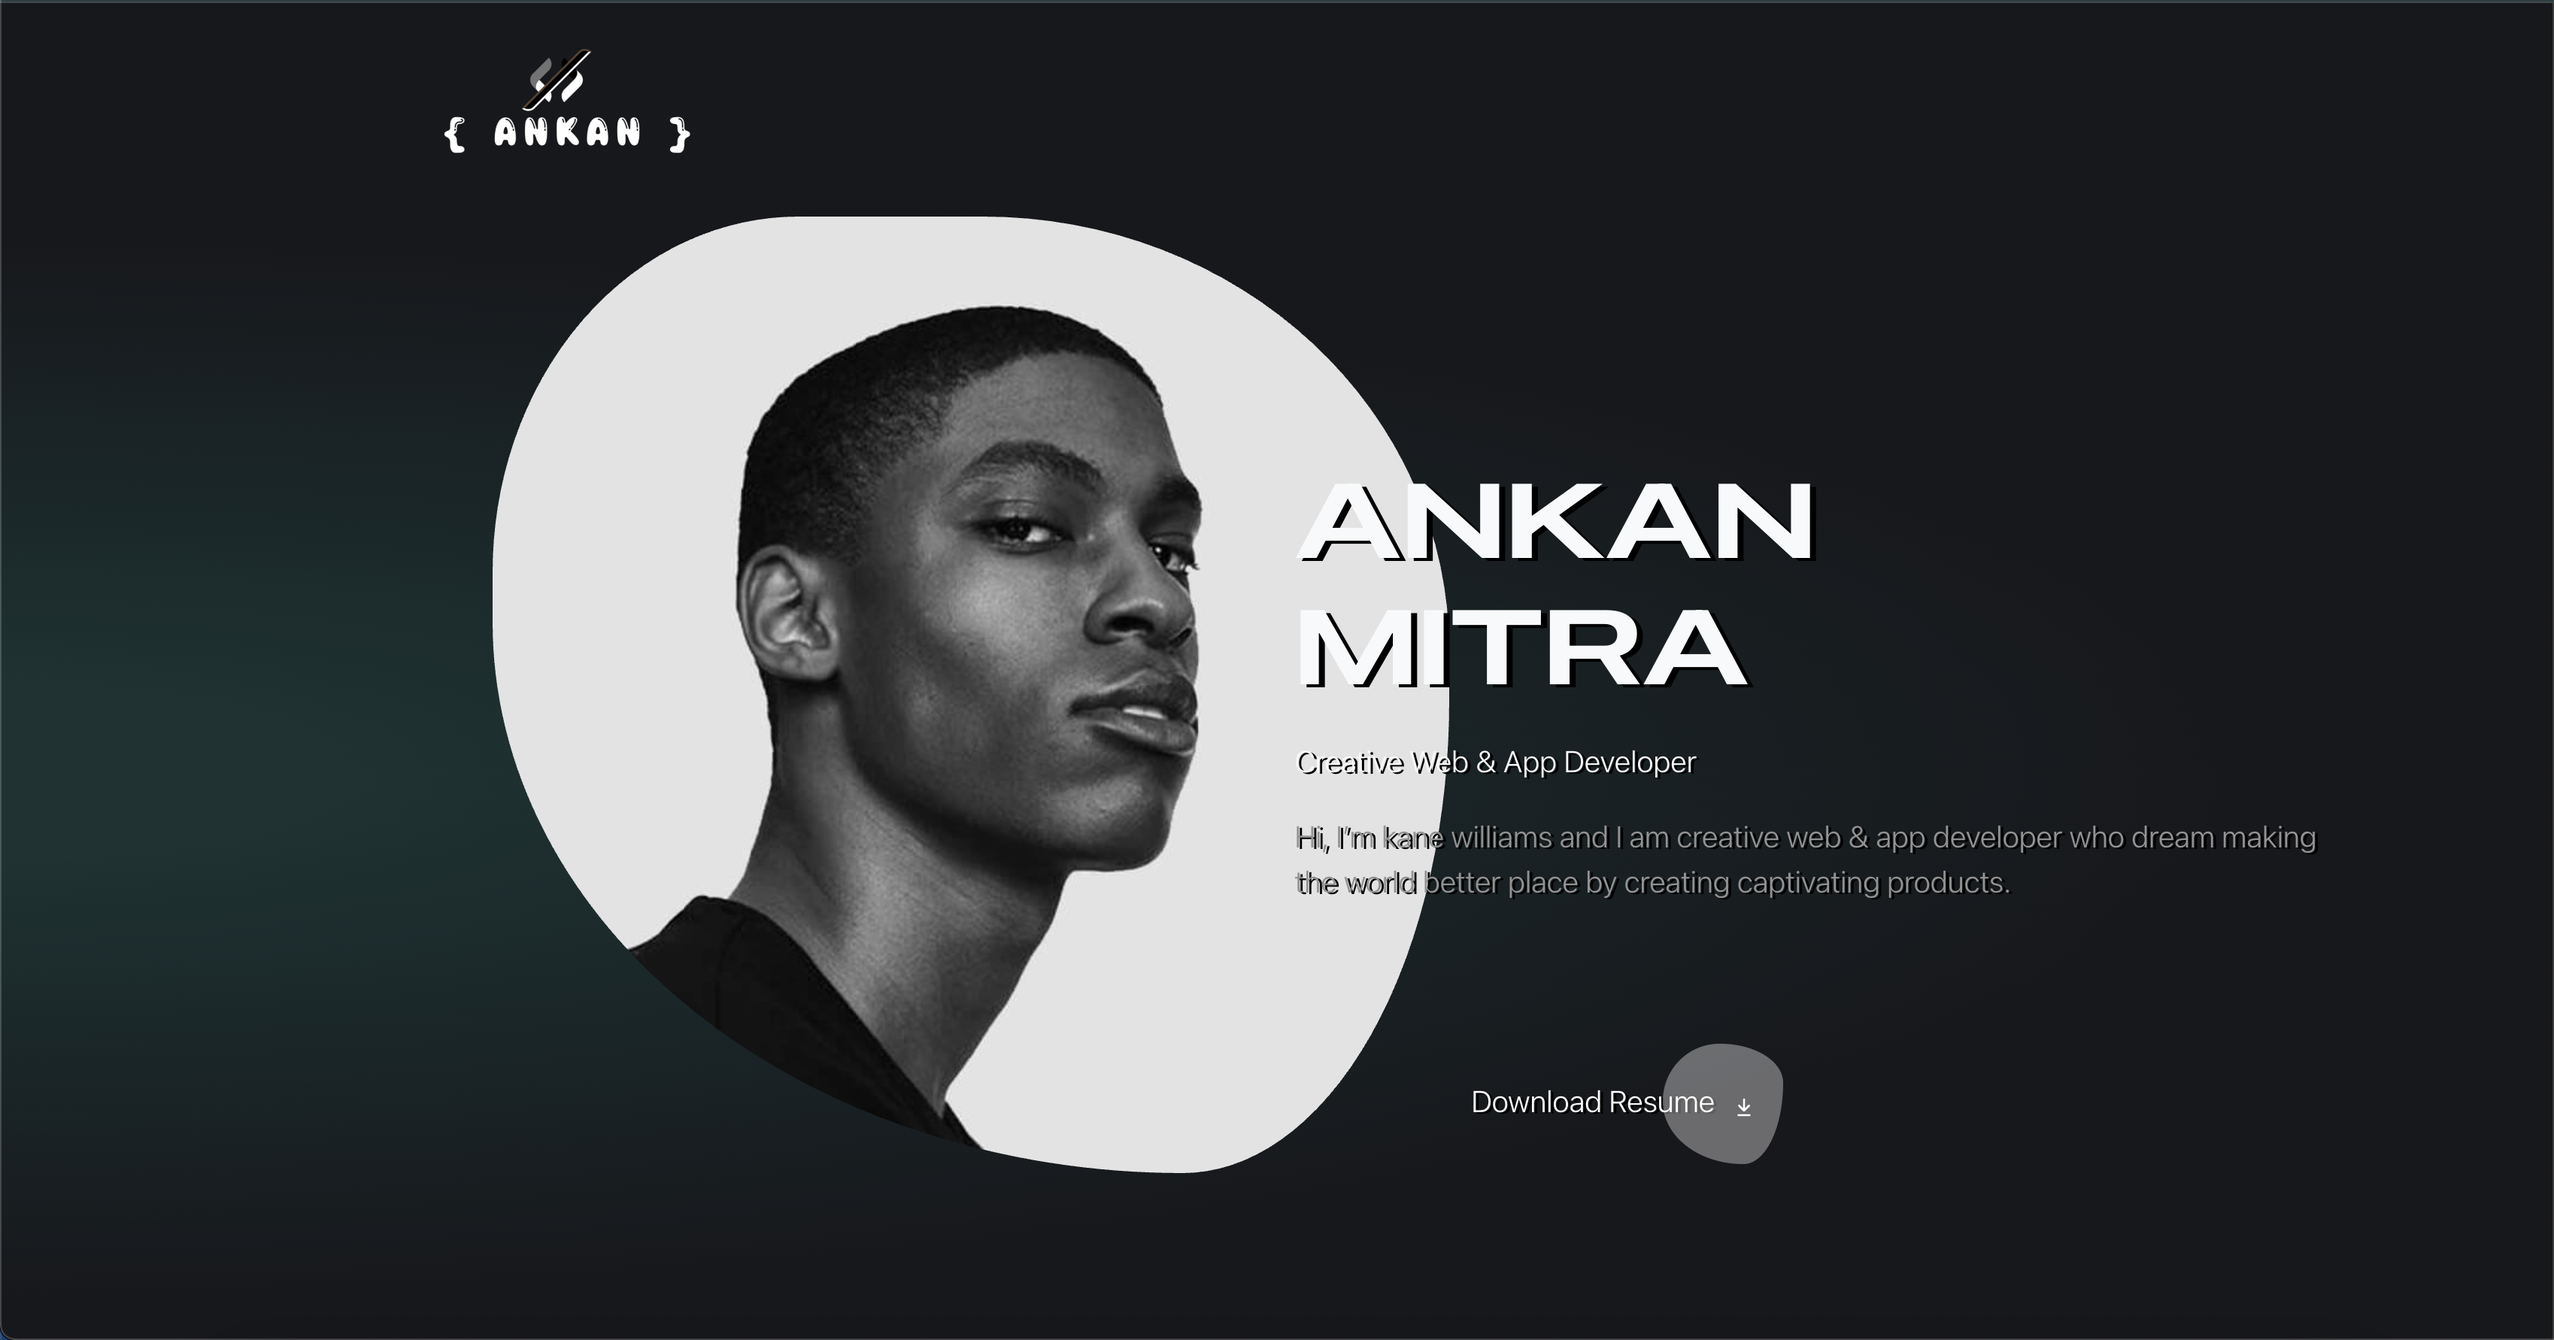
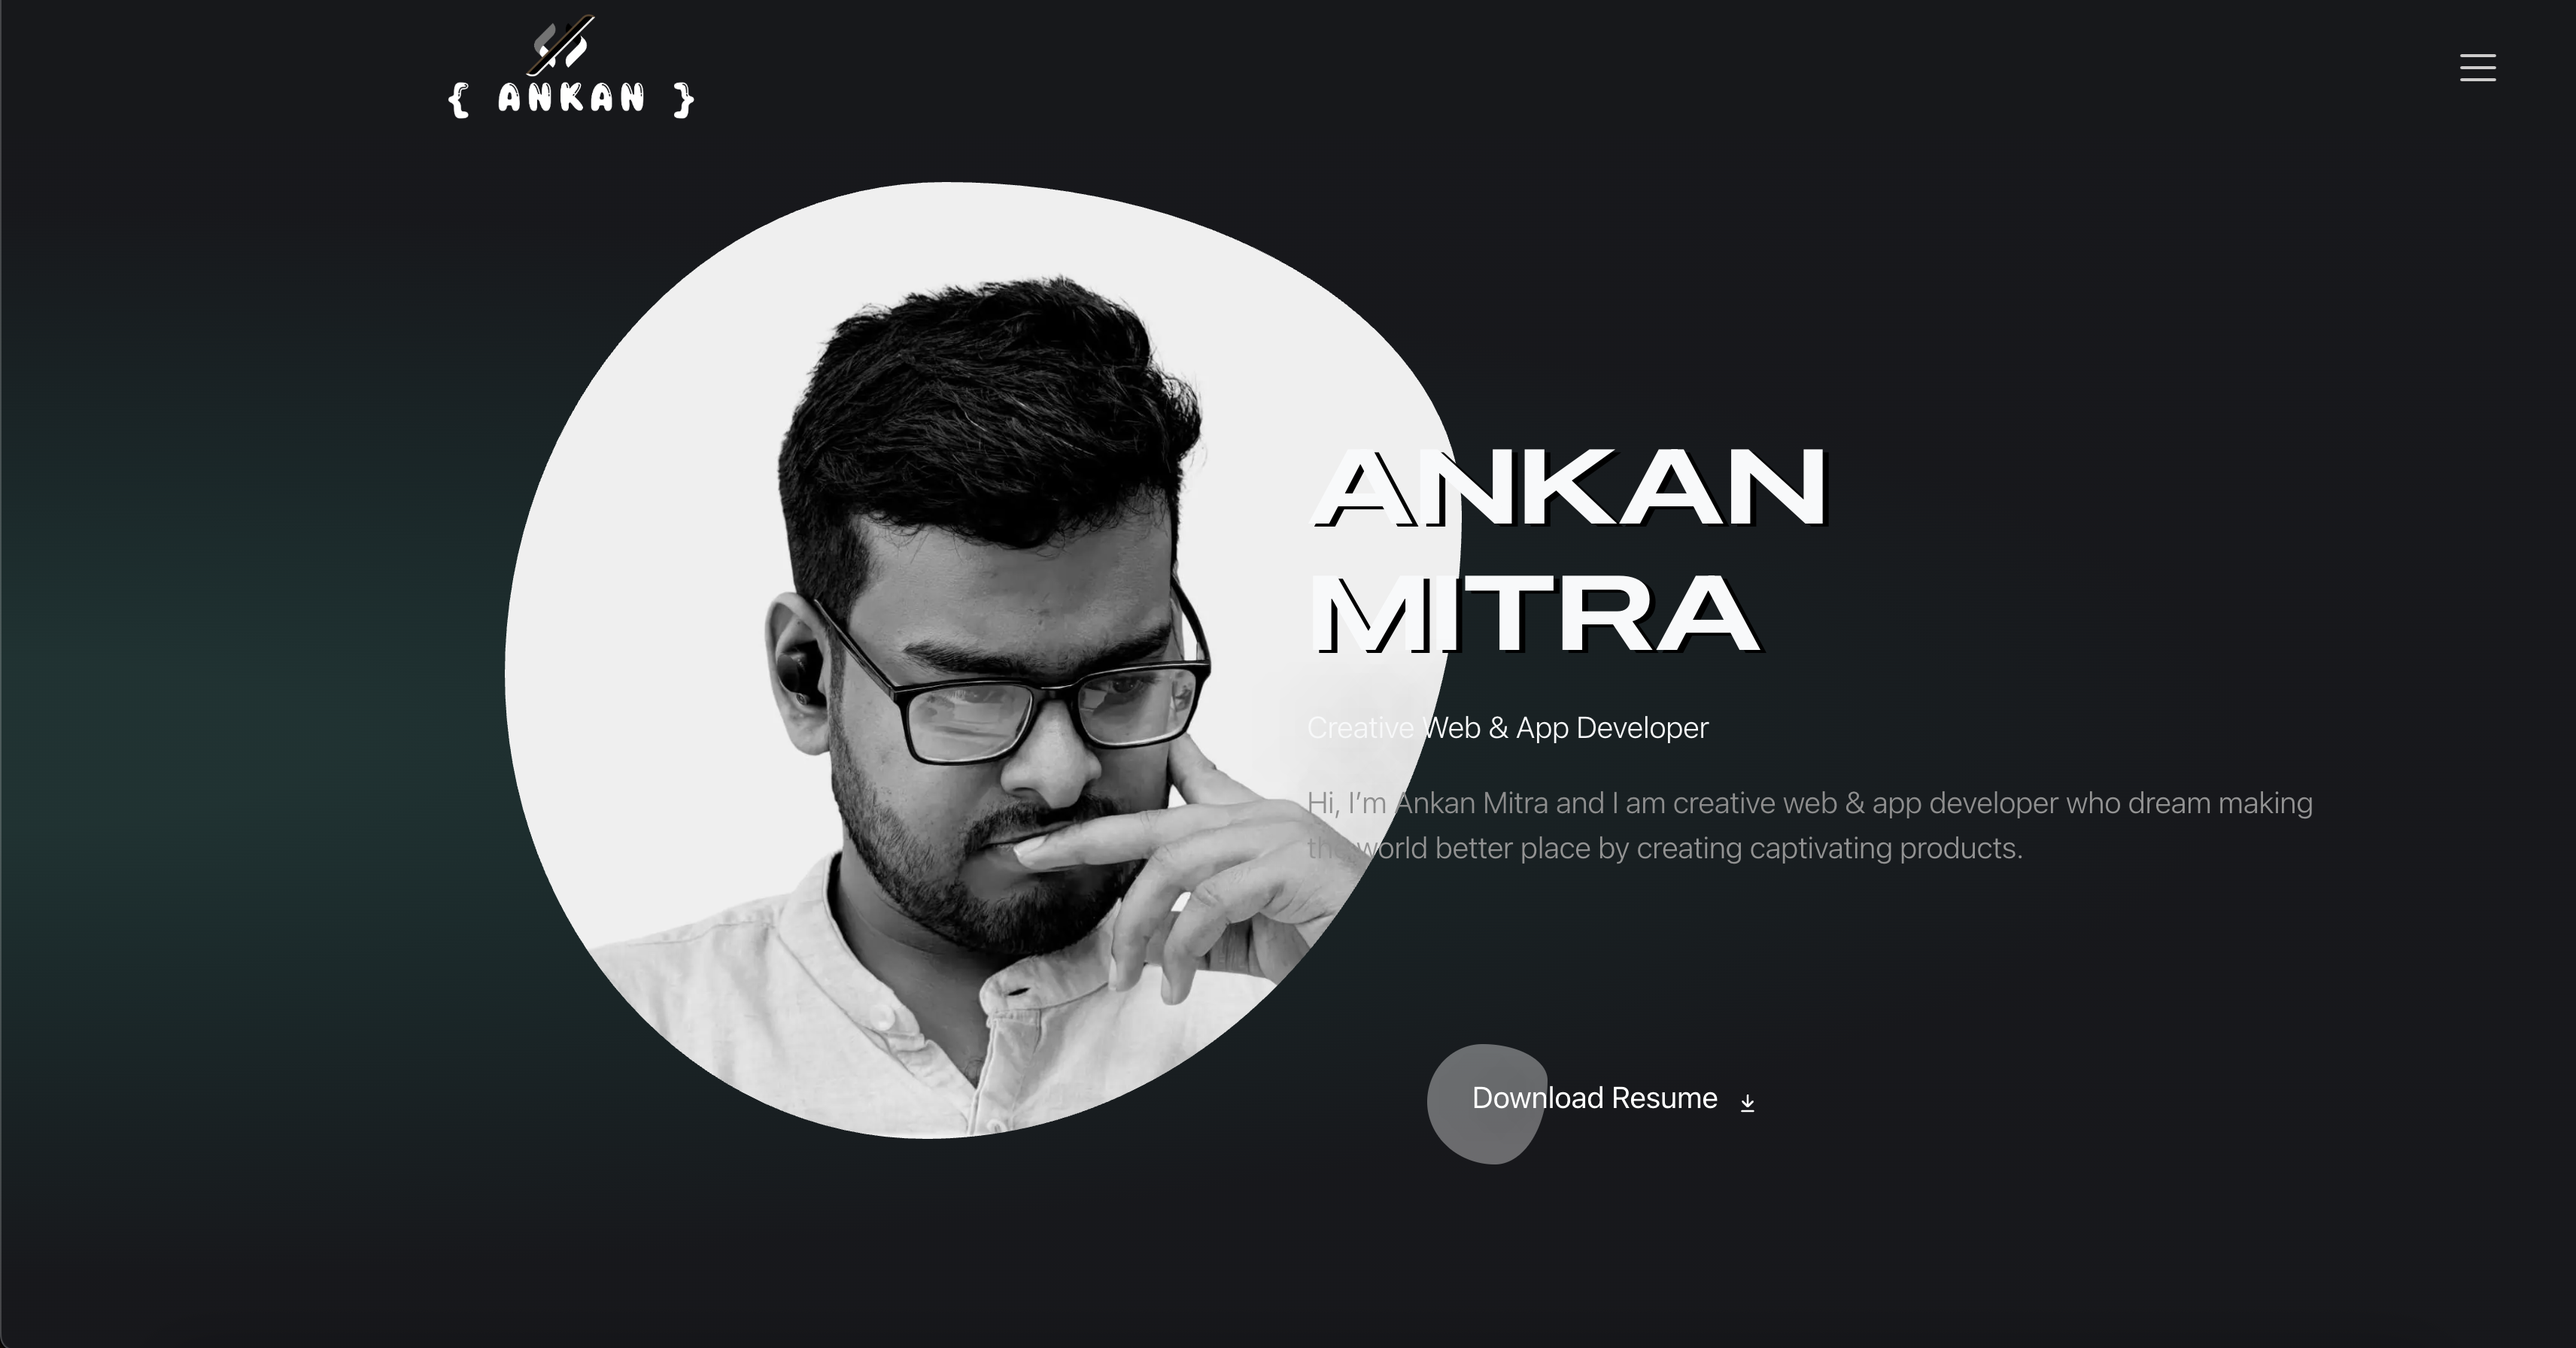
Uploaded resume

diff --git a/public/index.html b/public/index.html
@@ -6,8 +6,8 @@
   <link rel="icon" href="%PUBLIC_URL%/favicon.ico" />
   <meta name="viewport" content="width=device-width, initial-scale=1" />
   <meta name="theme-color" content="#000000" />
-  <meta name="description" content="Web site created using create-react-app" />
-  <link rel="apple-touch-icon" href="%PUBLIC_URL%/logo192.png" />
+  <meta name="description" content="Ankan Mitra portfolio website" />
+  <link rel="apple-touch-icon" href="%PUBLIC_URL%/favicon.png"/>
   <!--
       manifest.json provides metadata used when your web app is installed on a
       user's mobile device or desktop. See https://developers.google.com/web/fundamentals/web-app-manifest/
@@ -36,7 +36,7 @@ https://cdn.jsdelivr.net/npm/@splidejs/splide@4.1.4/dist/css/splide.min.css
       work correctly both with client-side routing and a non-root public URL.
       Learn how to configure a non-root public URL by running `npm run build`.
     -->
-  <title>React App</title>
+  <title>Ankan Mitra</title>
 </head>
 
 <body>

diff --git a/src/App.css b/src/App.css
@@ -104,8 +104,9 @@
   height: 80px;
   width: 80px;
   border-radius: 50%;
-  left: 80%;
-  top: -23px;
+  z-index: -1 ;
+  left: 20%;
+  top: 0px;
   animation: blobAnim 60s infinite;
 }
 .about {
@@ -493,4 +494,18 @@
 .sidebar-offcanvas {
   background-color: #ffb74d;
   padding: 20px;
+}
+.download {
+    height: 100px;
+    width: 400px;
+    padding-right: 100px;
+    padding-top: 20px;
+    font-weight: 400 !important;
+  &:hover {
+    cursor: pointer;
+    .circle{
+      left: 60%;
+      transition: left 0.6s cubic-bezier(0.68, -0.55, 0.265, 1.55)
+    }
+  }
 }

diff --git a/src/Header/Hero.jsx b/src/Header/Hero.jsx
@@ -22,8 +22,8 @@ const Hero = () => {
             </p>
             <br />
             <br />
-            <p className="download text-end position-relative">
-              Download Resume <MoveToBottomIcon size={14} className="ms-2" />
+            <p className="download text-end position-relative" onClick={()=>{window.open('https://drive.google.com/file/d/1Qbiuc_Vt1HQcYqqJEzfRga5P24cs9eVk/view', '_blank')}}>
+              Download Resume <MoveToBottomIcon size={14} className="ms-2 downloadIcon" />
               <span className="circle"></span>
             </p>
 

diff --git a/src/Contact/contact.jsx b/src/Contact/contact.jsx
@@ -18,14 +18,14 @@ const Contact = () => {
             <span>
               <img src={mail} alt="Mail Icon" height={35} loading="lazy"/>
             </span>
-            your-email@example.com
+            ankanmtr7@gmail.com
           </p>
           <p className="call">
             {" "}
             <span>
               <img src={whatsapp} alt="Call Icon" height={35} loading="lazy" />
             </span>
-            (123) 456-7890
+            +91 7384564994
           </p>
         </div>
       </div>

diff --git a/src/Project/MyProject.jsx b/src/Project/MyProject.jsx
@@ -52,6 +52,8 @@ const MyProject = () => {
         "A personal portfolio website showcasing my skills, projects, and experience as a web developer.",
       technologies: ["ReactJS", "HTML", "CSS", "JavaScript"],
       image: Porfolio,
+      git: "https://github.com/Ankanmtr7/Portfolio",
+      link: "https://cheerful-rabanadas-ad512a.netlify.app/",
     },
   ];
   const options = {
